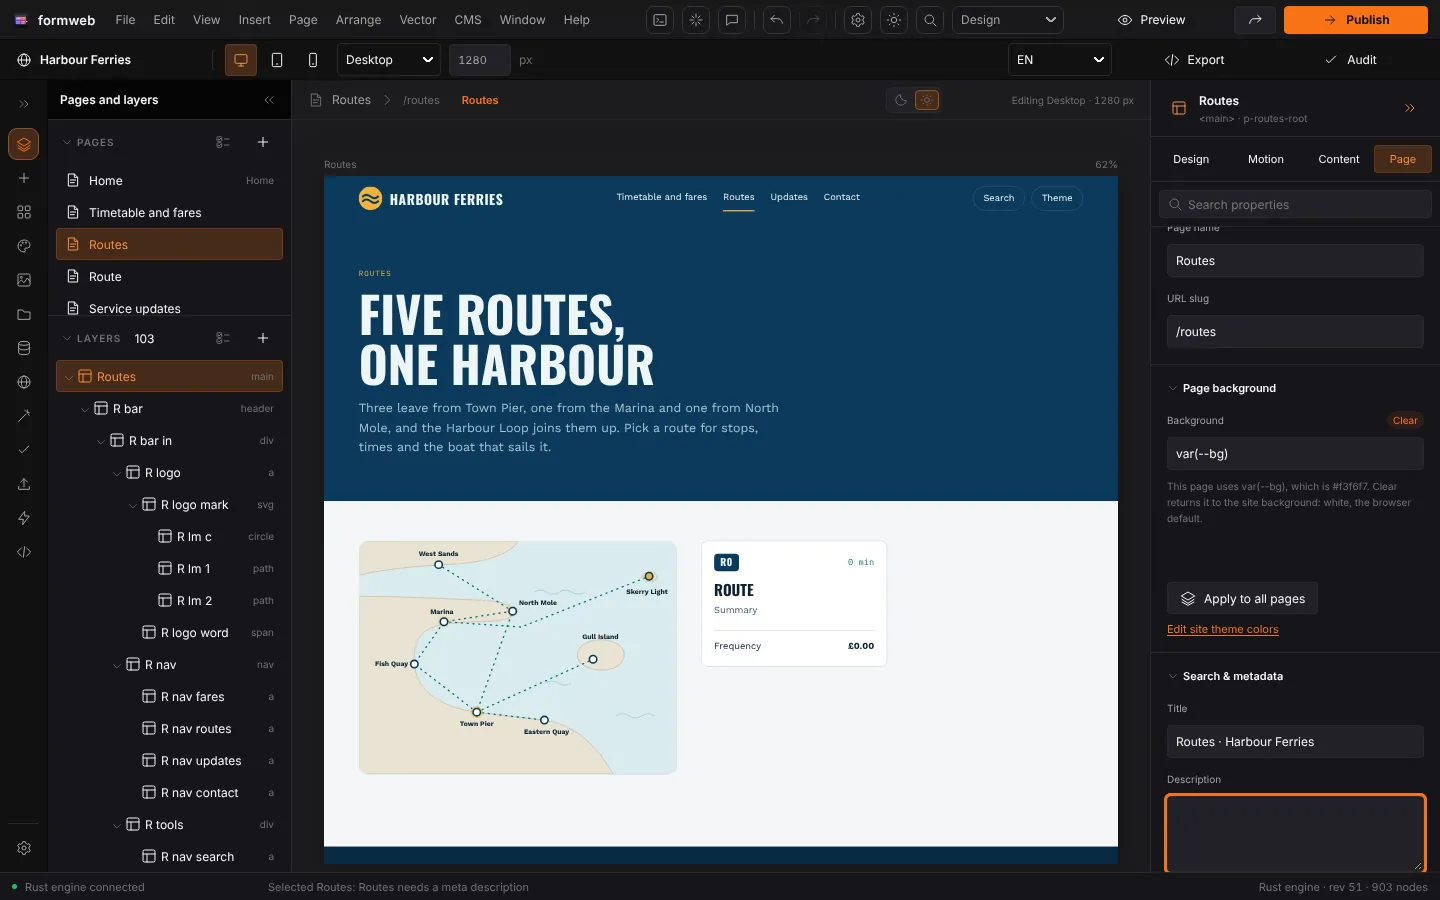
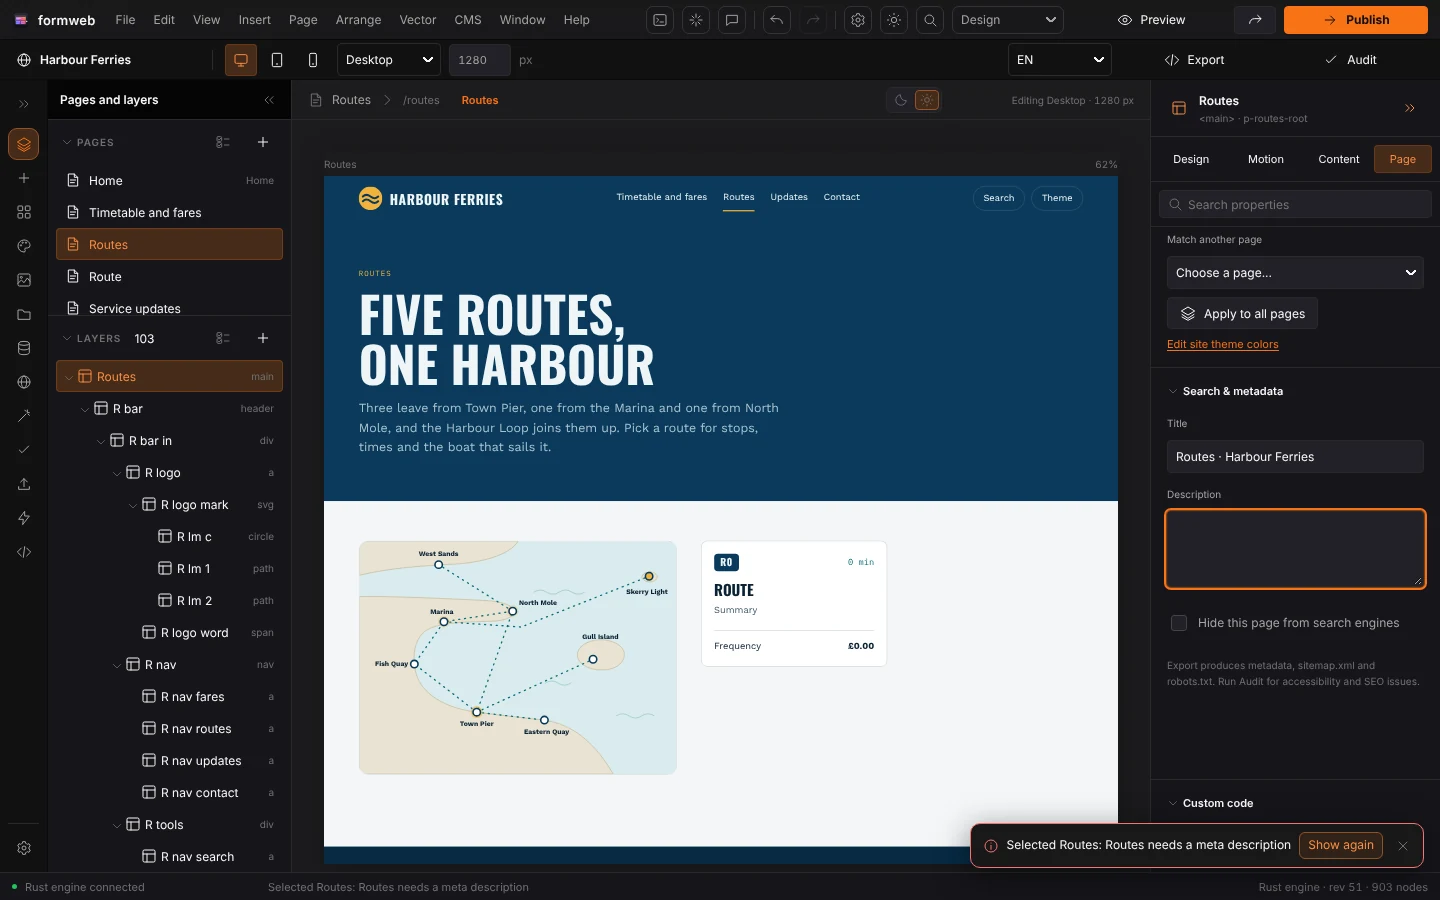
docs(guide): Audit explains the notice that keeps the issue in view and Show again, with the pictures taken again; manual and architecture wiki follow

diff --git a/docs/MANUAL.md b/docs/MANUAL.md
@@ -164,7 +164,7 @@ Undo and redo operate on engine changes. An agent command batch is one atomic un
 
 ## Audit and export
 
-Run Audit to inspect model issues. Select on an issue opens its page, selects the element, scrolls the canvas so the element is in the middle of the view and its outline pulses for about two seconds (with reduced motion it stays still and wider for the same time); the layer row scrolls into view and the status line names the issue, for example "Selected Hero image: Image needs alt text (empty alt is valid for decoration)". An issue about the whole page (a missing title or description) or the base URL opens the Page inspector instead and flashes that field. Picking a layer in the left panel, or a step of the selection path above the canvas, also scrolls the canvas when that element is out of view; a click on the canvas itself never scrolls it. Then check hierarchy, links, media alternatives, forms, headings and narrow widths visually. The audit is an aid and does not certify all accessibility requirements. A form that posts (one with no submit script and no action of its own) gets the warning `forms.local-address`: Export static site writes its action as this computer's FormWeb address, so on another host the form sends nothing. The warning names the page and selects the form. Give the form a scripted reply (Motion > Script with the Submit trigger) or keep the site on this computer with Publish; an export's warnings list carries the same sentence, and the status line shows it after an export or a send (a site without such a form shows nothing). A local publication and Preview are served by FormWeb itself and are not flagged.
+Run Audit to inspect model issues. Select on an issue opens its page, selects the element, scrolls the canvas so the element is in the middle of the view and its outline pulses for about two seconds (with reduced motion it stays still and wider for the same time); the layer row scrolls into view and the status line names the issue, for example "Selected Hero image: Image needs alt text (empty alt is valid for decoration)". An issue about the whole page (a missing title or description) or the base URL opens the Page inspector instead, scrolls that field to the middle of the panel and flashes it. Either way a notice at the bottom right repeats the status line for about 30 seconds (longer while the pointer or focus is on it), with Show again, which goes back to the same page, element or field without reopening the audit; it does nothing once the audit has been run again. Picking a layer in the left panel, or a step of the selection path above the canvas, also scrolls the canvas when that element is out of view; a click on the canvas itself never scrolls it. Then check hierarchy, links, media alternatives, forms, headings and narrow widths visually. The audit is an aid and does not certify all accessibility requirements. A form that posts (one with no submit script and no action of its own) gets the warning `forms.local-address`: Export static site writes its action as this computer's FormWeb address, so on another host the form sends nothing. The warning names the page and selects the form. Give the form a scripted reply (Motion > Script with the Submit trigger) or keep the site on this computer with Publish; an export's warnings list carries the same sentence, and the status line shows it after an export or a send (a site without such a form shows nothing). A local publication and Preview are served by FormWeb itself and are not flagged.
 
 Export downloads static HTML/CSS/JavaScript, uploaded assets, route metadata and configured runtime behavior. All-locale output includes translated routes and alternate-language metadata. Review warnings and open the exported pages. Keep editable source as well as the ZIP. When the site has a form that posts to this computer, the status line after File > Export static site adds that page's `forms.local-address` sentence, after any 404 base URL warning. The line starts with the language that was exported, named in the interface language ("Static site exported for English."). While the ZIP is being made the toolbar's Export button shows a progress pointer and its icon pulses (it stays still with reduced motion), and neither the button nor File > Export static site starts a second export. When it is done a notice at the bottom right names the file and where it went, and stays about 12 seconds (longer while the pointer is on it): in a browser "Downloaded coldmere-site.zip", and the browser's own downloads list shows the file; in the desktop app, which saves straight to your Downloads folder without a prompt, "Exported coldmere-site.zip to" the folder it was saved in, with a Show in folder button that selects the file in Finder or File Explorer (on Linux it opens the folder). If the file was moved or deleted since, Show in folder turns the notice red and names the file and folder instead, in the editor's language like the rest of the notice. On Linux the Downloads folder is the one named in `~/.config/user-dirs.dirs`, or `~/Downloads` (made if missing) when that file names none. The desktop app names the file it really wrote, such as `coldmere-site (1).zip` when an older export is already there. If the export fails, or the desktop app could not write the file, the notice says so in red as well as the status line. File > Download .fweb project shows the same notice. Gated member content requires the authorizing backend; public static export is rejected rather than exposing it.
 

diff --git a/.docs/wiki/Architecture.md b/.docs/wiki/Architecture.md
@@ -59,7 +59,7 @@ New features are modules at the existing layer seams. Read `frontend/HASHOUT_LOG
 
 **Wishlist runtime.** The creative features live in the model, engine and export crates as `wishlist.rs`, with a small `wishlist.js` runtime in exports for published-list filters, sorting, sliders and multi-step forms. The editor side is `frontend/src/features/wishlist/` (one panel, nine tabs, every edit an ordinary engine batch). Form file uploads and validation presets are checked in `backend/app/forms.py`.
 
-**Bringing a node into view.** `Canvas.reveal(id)` in `ui/canvas.ts` scrolls the canvas document (never the editor) so the node sits in the middle of the part of the frame the stage shows, or its top when it is taller, and sets `data-fw-reveal` for two seconds: the canvas stylesheet pulses `outline-offset` on top of the selection outline (a static wider offset under reduced motion), so layout and export are untouched. `Canvas.bring(id)` scrolls only when the node is outside that part, to the nearest edge. Audit Select uses `reveal`, scrolls the layer row with `scrollNearest()` from `ui/reveal.ts` and writes "Selected {0}: {1}" to the status line; a page issue whose code has a field (`seo.title`, `seo.description`, `seo.base-url` and `seo.base-url-404` to the Base URL, `page.address-case` to the URL slug) opens the Page inspector and flashes that field (`flash()`, class `fw-flash`). Layer rows and crumbs call `bring` through `pickNode()`; a click on the canvas only selects and never scrolls. The crumbs are `features/crumbs.ts`: the path takes the free width of the stage header (`flex: 1 1 0`, so its content never moves the width note or the readout), and `fit()` (on every update and from a `ResizeObserver`) hides middle crumbs nearest the page first, then the page crumb, behind one "..." crumb that opens the hidden ones through `ui/context-menu.ts` as raw (untranslated) names; only then does the current crumb shrink, to no less than 5em, with an ellipsis.
+**Bringing a node into view.** `Canvas.reveal(id)` in `ui/canvas.ts` scrolls the canvas document (never the editor) so the node sits in the middle of the part of the frame the stage shows, or its top when it is taller, and sets `data-fw-reveal` for two seconds: the canvas stylesheet pulses `outline-offset` on top of the selection outline (a static wider offset under reduced motion), so layout and export are untouched. `Canvas.bring(id)` scrolls only when the node is outside that part, to the nearest edge. Audit Select uses `reveal`, scrolls the layer row with `scrollNearest()` from `ui/reveal.ts` and writes "Selected {0}: {1}" to the status line; a page issue whose code has a field (`seo.title`, `seo.description`, `seo.base-url` and `seo.base-url-404` to the Base URL, `page.address-case` to the URL slug) opens the Page inspector, scrolls that field to the middle of the panel and flashes it (`flash()`, class `fw-flash`). Since 0.31.1 Select also puts the same sentence in the shared `Notice` (error style, so it stays 30 seconds) with a Show again action that clicks the row's Select button again while the keyed row still holds the same issue key; the middle position keeps the field clear of the notice in the bottom right corner. Layer rows and crumbs call `bring` through `pickNode()`; a click on the canvas only selects and never scrolls. The crumbs are `features/crumbs.ts`: the path takes the free width of the stage header (`flex: 1 1 0`, so its content never moves the width note or the readout), and `fit()` (on every update and from a `ResizeObserver`) hides middle crumbs nearest the page first, then the page crumb, behind one "..." crumb that opens the hidden ones through `ui/context-menu.ts` as raw (untranslated) names; only then does the current crumb shrink, to no less than 5em, with an ellipsis.
 
 **Page background.** The site model has no site-wide background: a page's background is the `background` style of its root node, and `page.add` gives a new root none. The exported stylesheet sets no body color, so such a page is white with black text in a browser, and the canvas document (`ui/canvas.ts`) draws the same defaults (`color-scheme: light`, `Canvas` and `CanvasText`) so the editor shows what visitors get. `frontend/src/features/inspector/page-background.ts` builds the Page tab's Page background group and the commands `page.background`, `page.background-clear`, `page.background-all` and `window.theme-colors`; every change is an ordinary `node.update` on the page root's base styles, and Apply to all pages is one batch, so one undo step. Before either writes, `backgroundRefusal` resolves the site's tokens in the value and asks `CSS.supports('background', ...)`; a value the browser does not parse is refused with a status message. Match another page (0.31.1) is a select filled by `matchChoices()` (the home page, the page at / or else the first, comes first) through `options()`, so it updates in place; a pick runs `page.background-from {from}`, one `node.update` built by `matchPatch()` that copies the other page's `background` and `color` and drops a local `background-color`; `page.background-home` is the same with the home page. The Add page dialog's Background select is filled by `startChoices()`; for a page choice `startCommands()` gives the `node.update` for a root id the editor makes up, sent in one batch after `page.add {id, root}`, so the new page and its background are one undo step. These copy values; nothing links one page's background to another's.
 

diff --git a/docs/guide/07-audit.md b/docs/guide/07-audit.md
@@ -21,9 +21,11 @@ The example uses **Harbour Ferries** (**Help > Demos > Harbour Ferries**). Out o
 ## Go straight to the problem with Select
 
 1. Click **Select** next to the issue.
-2. The dialog closes and FormWeb takes you there: it opens the Routes page, opens the **Page** tab, puts the cursor in the empty **Description** field and outlines it. The status line says "Selected Routes: Routes needs a meta description".
+2. The dialog closes and FormWeb takes you there: it opens the Routes page, opens the **Page** tab, scrolls the empty **Description** field to the middle of the panel, puts the cursor in it and outlines it. The status line says "Selected Routes: Routes needs a meta description", and a notice at the bottom right says the same, so you do not have to remember it.
 
-![After Select: the Routes page of Harbour Ferries is open on the canvas, the Routes page is highlighted in the PAGES list, and the Description field in the right panel is outlined in orange; the status line reads Selected Routes: Routes needs a meta description](images/audit-select.webp)
+![After Select: the Routes page of Harbour Ferries is open on the canvas, the Routes page is highlighted in the PAGES list, the Description field in the right panel is outlined in orange, and the notice at the bottom right reads Selected Routes: Routes needs a meta description, with a Show again button](images/audit-select.webp)
+
+The notice stays for about 30 seconds, and as long as your pointer is on it. **Show again** takes you back to the same place (the page, the element or the field) if you have clicked elsewhere meanwhile; you do not need to open the audit again. The cross closes the notice.
 
 3. Type a description and press Tab. Run the audit again: the issue is gone.
 

diff --git a/docs/guide/01-first-site.md b/docs/guide/01-first-site.md
@@ -127,7 +127,7 @@ On the phone the 64 px padding leaves little room for the text. [The right panel
 
 The first two issues are on the empty Home page; the next three are on your Classes page.
 
-2. Click **Select** next to "Classes needs a meta description". The dialog closes, the **Page** tab opens, and the **Description** field is outlined with the cursor in it. The status line says "Selected Classes: Classes needs a meta description".
+2. Click **Select** next to "Classes needs a meta description". The dialog closes, the **Page** tab opens, and the **Description** field is outlined with the cursor in it. The status line says "Selected Classes: Classes needs a meta description", and a notice at the bottom right repeats it, with **Show again** to come back here later.
 
 ![The Page tab after Select: the Description field under Search & metadata is outlined in orange and empty, ready for typing](images/first-site-audit-select.webp)
 
